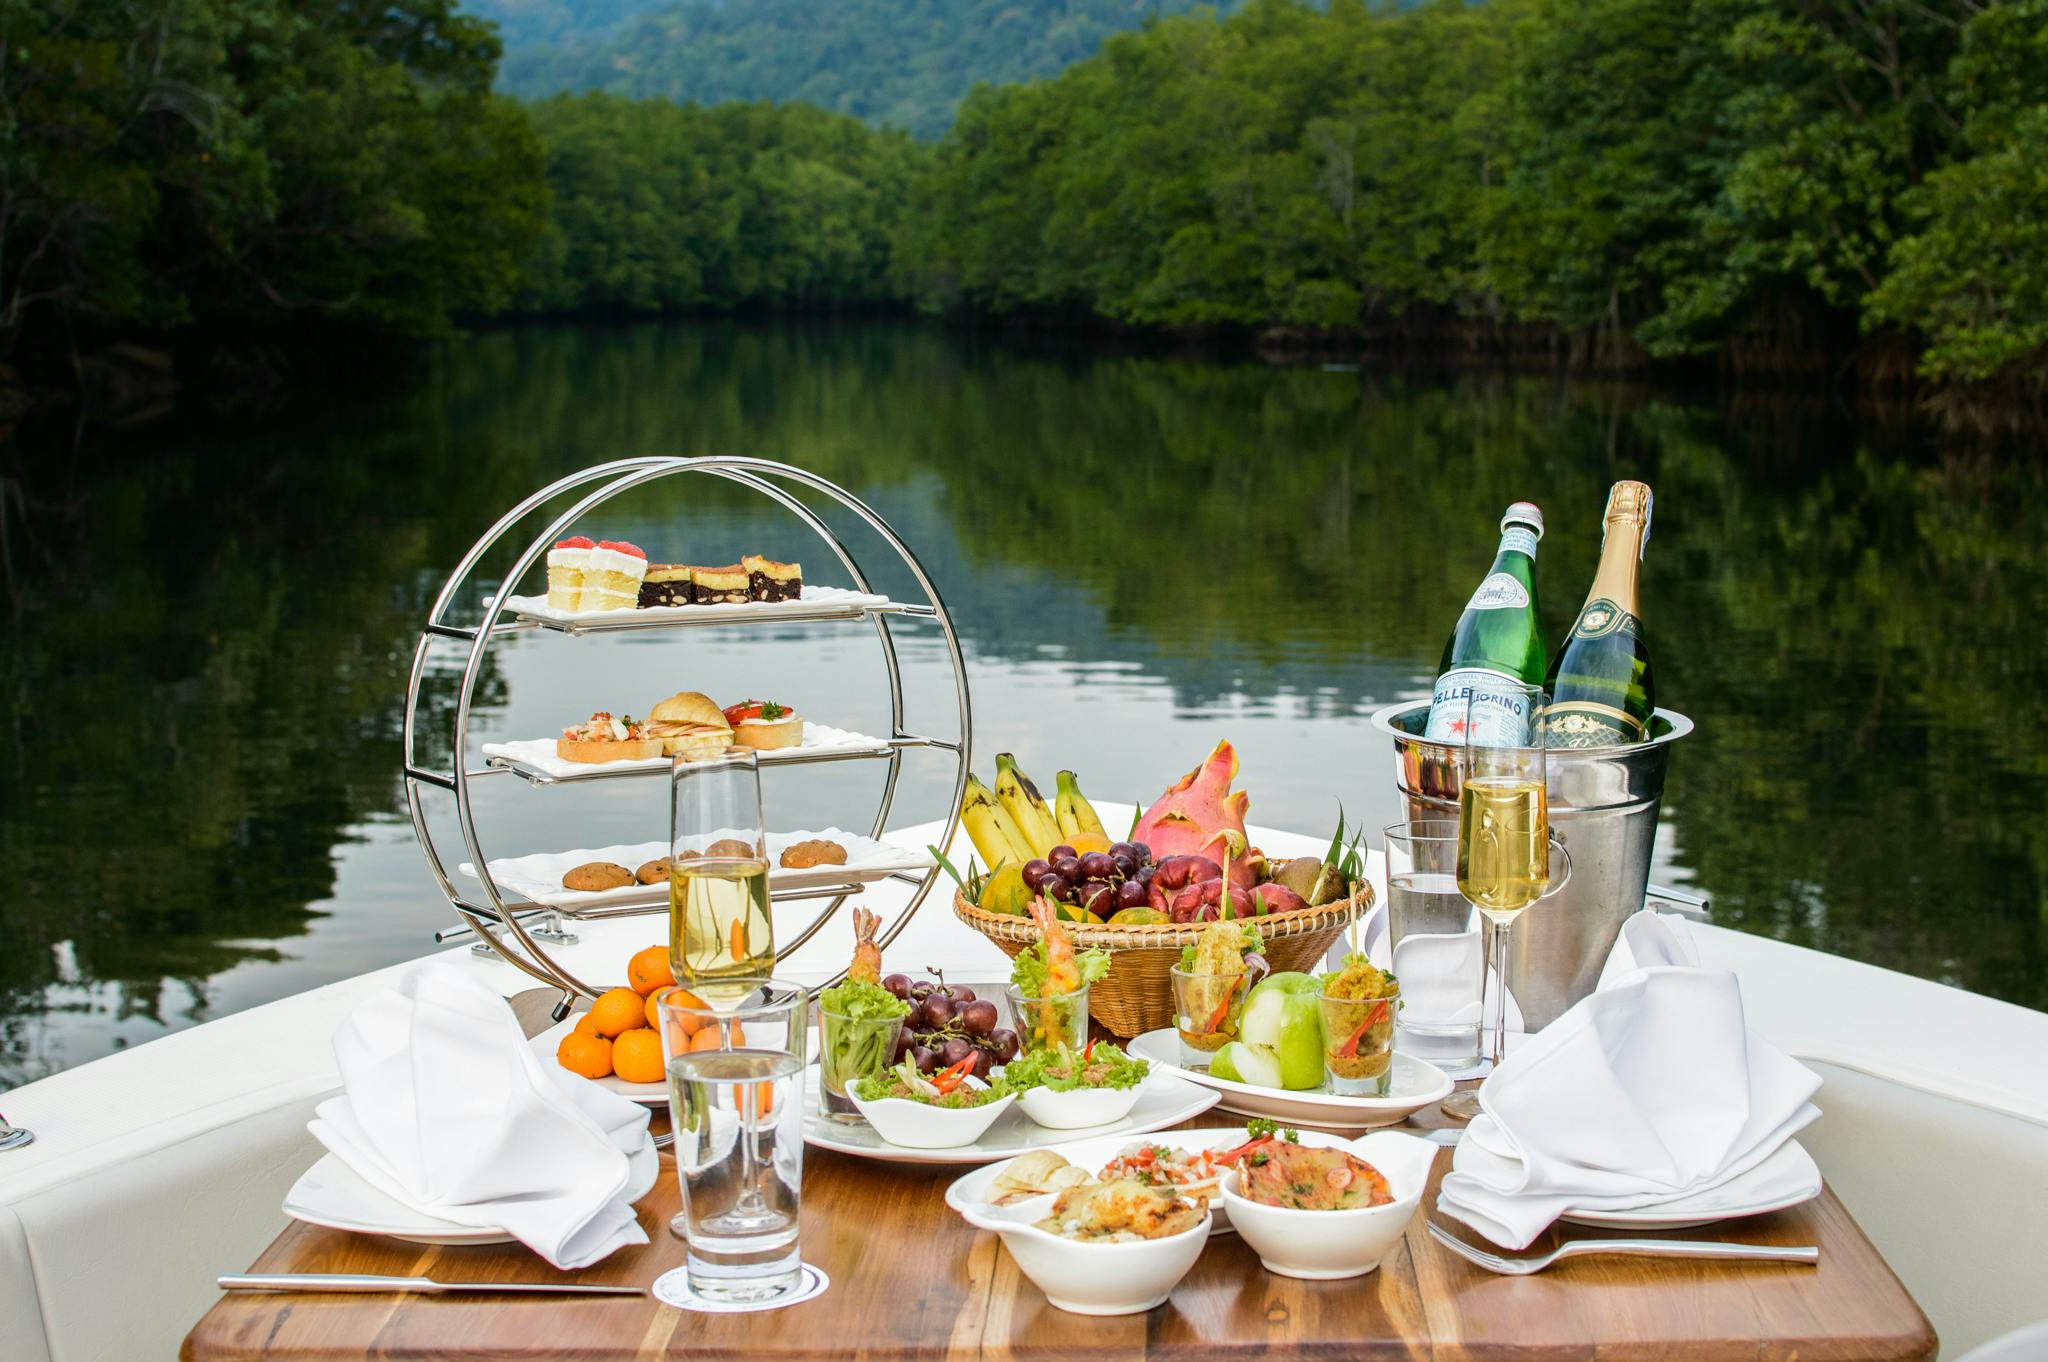
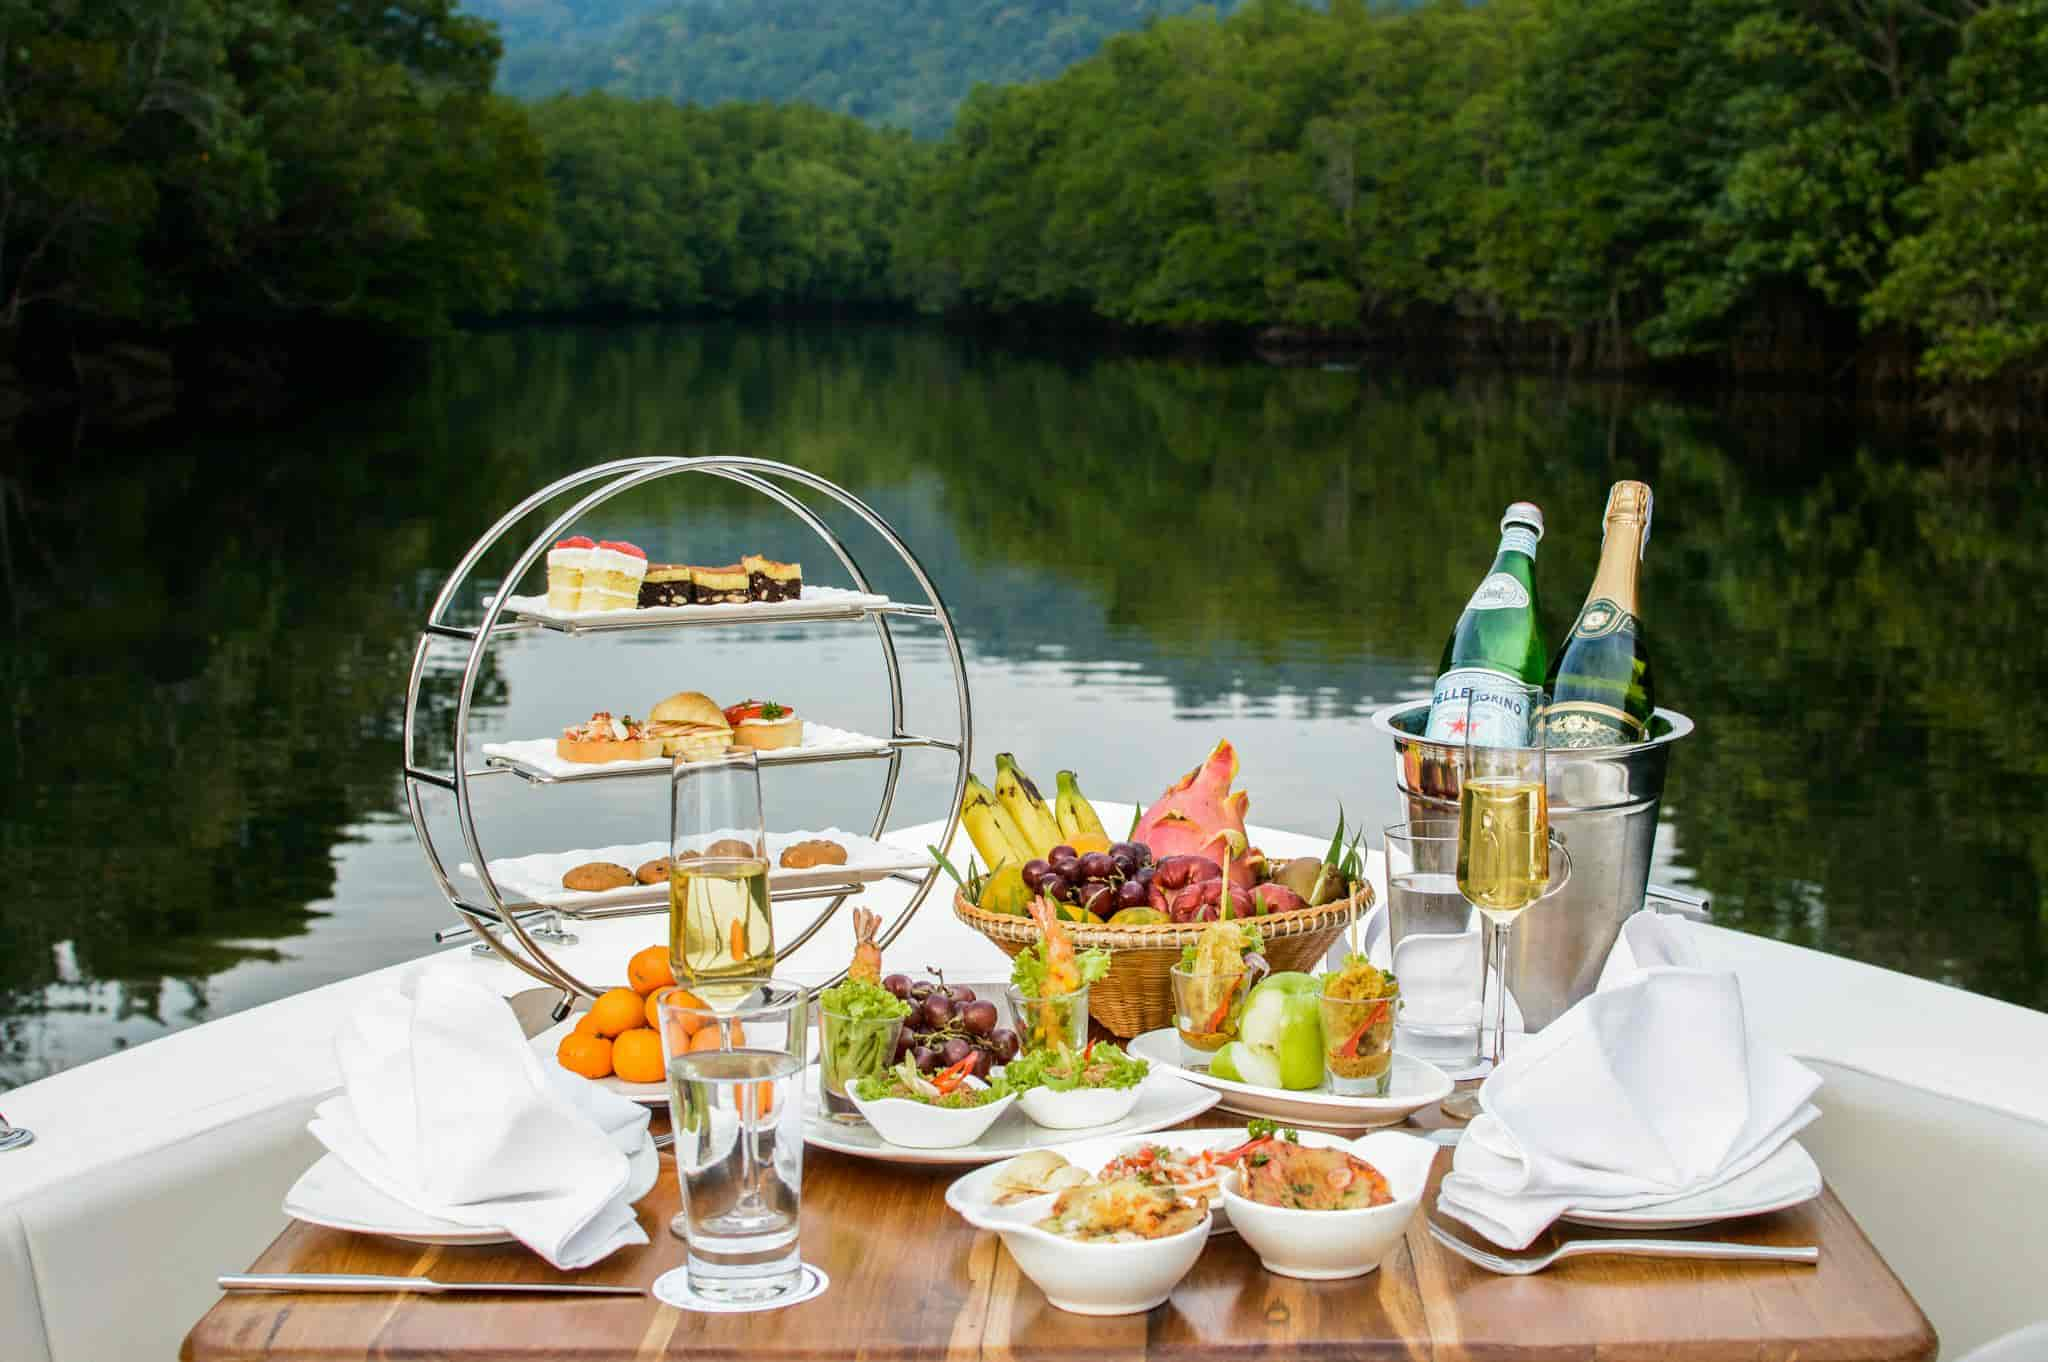
trips.html

diff --git a/wwr/index.html b/wwr/index.html
@@ -41,15 +41,15 @@
             unforgettable adventures. Whether you’re seeking calm reflection, family bonding, or
             adrenaline-pumping thrills, we provide experiences that let you explore the river in your own way.</p>
             <div class="grid">
-               <figure class="activities box"><figcaption>Solo Bamboo Rafting</figcaption><img src="images/solobamboo.jpg" alt="stories1" width="200">
+               <figure class="activities box"><figcaption>Solo Bamboo Rafting</figcaption><img src="images/solobamboo.jpg" alt="activities" width="200">
                     <p>Step onto a handcrafted bamboo raft and drift peacefully downstream. This activity is perfect for
                     those who want solitude, serenity, and a chance to connect deeply with the natural surroundings.</p>
                 </figure>
-                <figure class="activities box"><figcaption>Ziplining</figcaption><img src="images/zipline.jpg" alt="stories2" width="200">
+                <figure class="activities box"><figcaption>Ziplining</figcaption><img src="images/zipline.jpg" alt="activities1" width="200">
                     <p>Feel the rush as you soar above the river on our exhilarating zipline. It’s the ultimate way to
                     combine adventure with breathtaking views, giving you a bird’s-eye perspective of the lush landscape.</p>
                 </figure>
-                <figure class="Activities box"><figcaption>Rafting with the family</figcaption><img src="images/familyfun.jpg" alt="stories3" width="200">
+                <figure class="activities box"><figcaption>Rafting with the family</figcaption><img src="images/familyfun.jpg" alt="activities2" width="200">
                     
                     <p>Share laughter, teamwork, and excitement as you raft together. Safe and guided, this experience is
                     tailored for families of all ages, making it a memorable bonding adventure.</p>
